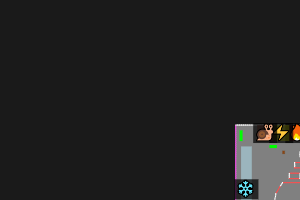
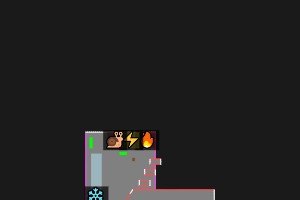
fix custom room spawn positions

Changed region(s): [[0.27, 0.63, 0.72, 1.0], [0.78, 0.6, 1.0, 1.0]]

diff --git a/server.js b/server.js
@@ -807,11 +807,22 @@ class Car {
     this.isGhost = false;
     this.trapDamageHistory = new Map();
     const roomMapKey = this.room ? this.room.currentMapKey : 'square'; // fallback
-    const mapDef = mapManager.getMap(roomMapKey);
+    
+    // Parse category and key from roomMapKey if it contains '/'
+    let mapCategory = null;
+    let mapKey = roomMapKey;
+    if (roomMapKey && roomMapKey.includes('/')) {
+      const parts = roomMapKey.split('/');
+      mapCategory = parts[0];
+      mapKey = parts[1];
+    }
+    
+    const mapDef = mapManager.getMap(mapKey, mapCategory);
     let startPos = { x: 0, y: 0 };
     this.checkpointsVisited = new Set()
     this._cpLastSides = new Map()
     this.hasLeftStartSinceLap = false
+    
     if (mapDef && mapDef.start) {
       if (mapDef.start.vertices && mapDef.start.vertices.length) {
         const verts = mapDef.start.vertices;
@@ -821,6 +832,14 @@ class Car {
       } else if (typeof mapDef.start.x === 'number' && typeof mapDef.start.y === 'number') {
         startPos = mapDef.start;
       }
+    } else if (mapDef) {
+      // No start area defined, calculate a reasonable spawn position
+      console.log(`⚠ Map ${roomMapKey} has no start area defined, calculating fallback spawn position`);
+      startPos = this.calculateFallbackSpawnPosition(mapDef);
+    } else {
+      // No map found at all, use safe default
+      console.log(`⚠ Map ${roomMapKey} not found, using default spawn position`);
+      startPos = { x: 100, y: 0 }; // Better than (0,0)
     }
     this.checkpointsVisited = new Set();
     const def = CAR_TYPES[this.type]
@@ -974,7 +993,17 @@ class Car {
 
     const pos = this.body.position
     const roomMapKey = this.room ? this.room.currentMapKey : currentMapKey;
-    const map = mapManager.getMap(roomMapKey);
+    
+    // Parse category and key from roomMapKey if it contains '/'
+    let mapCategory = null;
+    let mapKey = roomMapKey;
+    if (roomMapKey && roomMapKey.includes('/')) {
+      const parts = roomMapKey.split('/');
+      mapCategory = parts[0];
+      mapKey = parts[1];
+    }
+    
+    const map = mapManager.getMap(mapKey, mapCategory);
     const checkpoints = map?.checkpoints || []
 
     for (let i = 0; i < checkpoints.length; i++) {
@@ -1015,7 +1044,7 @@ class Car {
       this._cpLastSides.set(cp.id, side)
     }
     let insideStart = false
-    const mapDef = mapManager.getMap(roomMapKey)
+    const mapDef = mapManager.getMap(mapKey, mapCategory)
     if (mapDef?.start?.vertices?.length) {
       insideStart = pointInPolygon(this.body.position.x, this.body.position.y, mapDef.start.vertices)
     }
@@ -1055,7 +1084,17 @@ class Car {
   }
   resetCar() {
     const roomMapKey = this.room ? this.room.currentMapKey : currentMapKey;
-    const map = mapManager.getMap(roomMapKey);
+    
+    // Parse category and key from roomMapKey if it contains '/'
+    let mapCategory = null;
+    let mapKey = roomMapKey;
+    if (roomMapKey && roomMapKey.includes('/')) {
+      const parts = roomMapKey.split('/');
+      mapCategory = parts[0];
+      mapKey = parts[1];
+    }
+    
+    const map = mapManager.getMap(mapKey, mapCategory);
     let startPos = { x: 0, y: 0 }
     if (map.start?.vertices?.length) {
       const verts = map.start.vertices
@@ -1142,6 +1181,59 @@ class Car {
         bestLapTime: this.bestLapTime
       });
     }
+  }
+  
+  // Calculate a reasonable spawn position when no start area is defined
+  calculateFallbackSpawnPosition(mapDef) {
+    if (!mapDef || !mapDef.shapes || !Array.isArray(mapDef.shapes)) {
+      // No shapes to work with, use a safe default
+      return { x: 100, y: 0 };
+    }
+    
+    // Find all vertices from all shapes to calculate map bounds
+    let allVertices = [];
+    for (const shape of mapDef.shapes) {
+      if (shape.vertices && Array.isArray(shape.vertices)) {
+        allVertices = allVertices.concat(shape.vertices);
+      }
+    }
+    
+    if (allVertices.length === 0) {
+      // No vertices found, use safe default
+      return { x: 100, y: 0 };
+    }
+    
+    // Calculate map center
+    const avgX = allVertices.reduce((sum, v) => sum + v.x, 0) / allVertices.length;
+    const avgY = allVertices.reduce((sum, v) => sum + v.y, 0) / allVertices.length;
+    
+    // Find map bounds
+    const minX = Math.min(...allVertices.map(v => v.x));
+    const maxX = Math.max(...allVertices.map(v => v.x));
+    const minY = Math.min(...allVertices.map(v => v.y));
+    const maxY = Math.max(...allVertices.map(v => v.y));
+    
+    // Try to find a position that's likely to be in open space
+    // Use the center, but offset towards the top or bottom to avoid walls
+    const mapWidth = maxX - minX;
+    const mapHeight = maxY - minY;
+    
+    // Offset from center towards what's likely to be open space
+    let spawnX = avgX;
+    let spawnY = avgY - mapHeight * 0.2; // Offset towards top of map
+    
+    // If the offset puts us too close to boundaries, try other positions
+    if (spawnY < minY + 50) {
+      spawnY = avgY + mapHeight * 0.2; // Try bottom
+    }
+    
+    // Ensure we're not too close to map edges
+    spawnX = Math.max(minX + 100, Math.min(maxX - 100, spawnX));
+    spawnY = Math.max(minY + 100, Math.min(maxY - 100, spawnY));
+    
+    console.log(`📍 Calculated fallback spawn position: (${Math.round(spawnX)}, ${Math.round(spawnY)}) for map center: (${Math.round(avgX)}, ${Math.round(avgY)})`);
+    
+    return { x: spawnX, y: spawnY };
   }
 }
 

diff --git a/client/client.js b/client/client.js
@@ -1758,7 +1758,6 @@
     // Enable binary encoding if server supports it
     if (data.binarySupport) {
       useBinaryEncoding = true;
-      console.log('Binary input encoding enabled');
     } else {
       useBinaryEncoding = false;
     }
@@ -2047,7 +2046,6 @@
     
     // Update current room ID from spectator state
     if (data.roomId && data.roomId !== currentRoomId) {
-      console.log(`🏠 Room ID updated from spectatorState: ${currentRoomId} -> ${data.roomId}`);
       currentRoomId = data.roomId;
     }
     
@@ -2165,17 +2163,14 @@
     const message = chatInput.value.trim();
     
     if (!message) {
-      console.log('Chat message blocked: empty message');
       return;
     }
     
     if (!playerName) {
-      console.log('Chat message blocked: no player name set');
       
       // Try to get player name from currentUser first
       if (currentUser) {
         playerName = currentUser.name || currentUser.username || 'Player';
-        console.log('Retrieved player name from currentUser:', playerName);
       }
       
       // If still no name, try to get from game state
@@ -2192,12 +2187,10 @@
       
       // Still no name? Block the message
       if (!playerName) {
-        console.log('Still no player name available, blocking message');
         return;
       }
     }
     
-    console.log('Sending chat message:', { playerName, message });
     socket.emit('chatMessage', { message: message });
     chatInput.value = '';
     toggleChatInput();
@@ -2910,13 +2903,11 @@
 
   // Handle AFK warning from server
   socket.on('afkWarning', (data) => {
-    console.log('⚠ AFK Warning received:', data);
     showAFKWarning(data.reason, data.countdown);
   });
 
   // Handle force disconnect from server
   socket.on('forceDisconnect', (data) => {
-    console.log('🚫 Force disconnect:', data.reason);
     
     // Hide any existing warnings
     hideAFKWarning();
